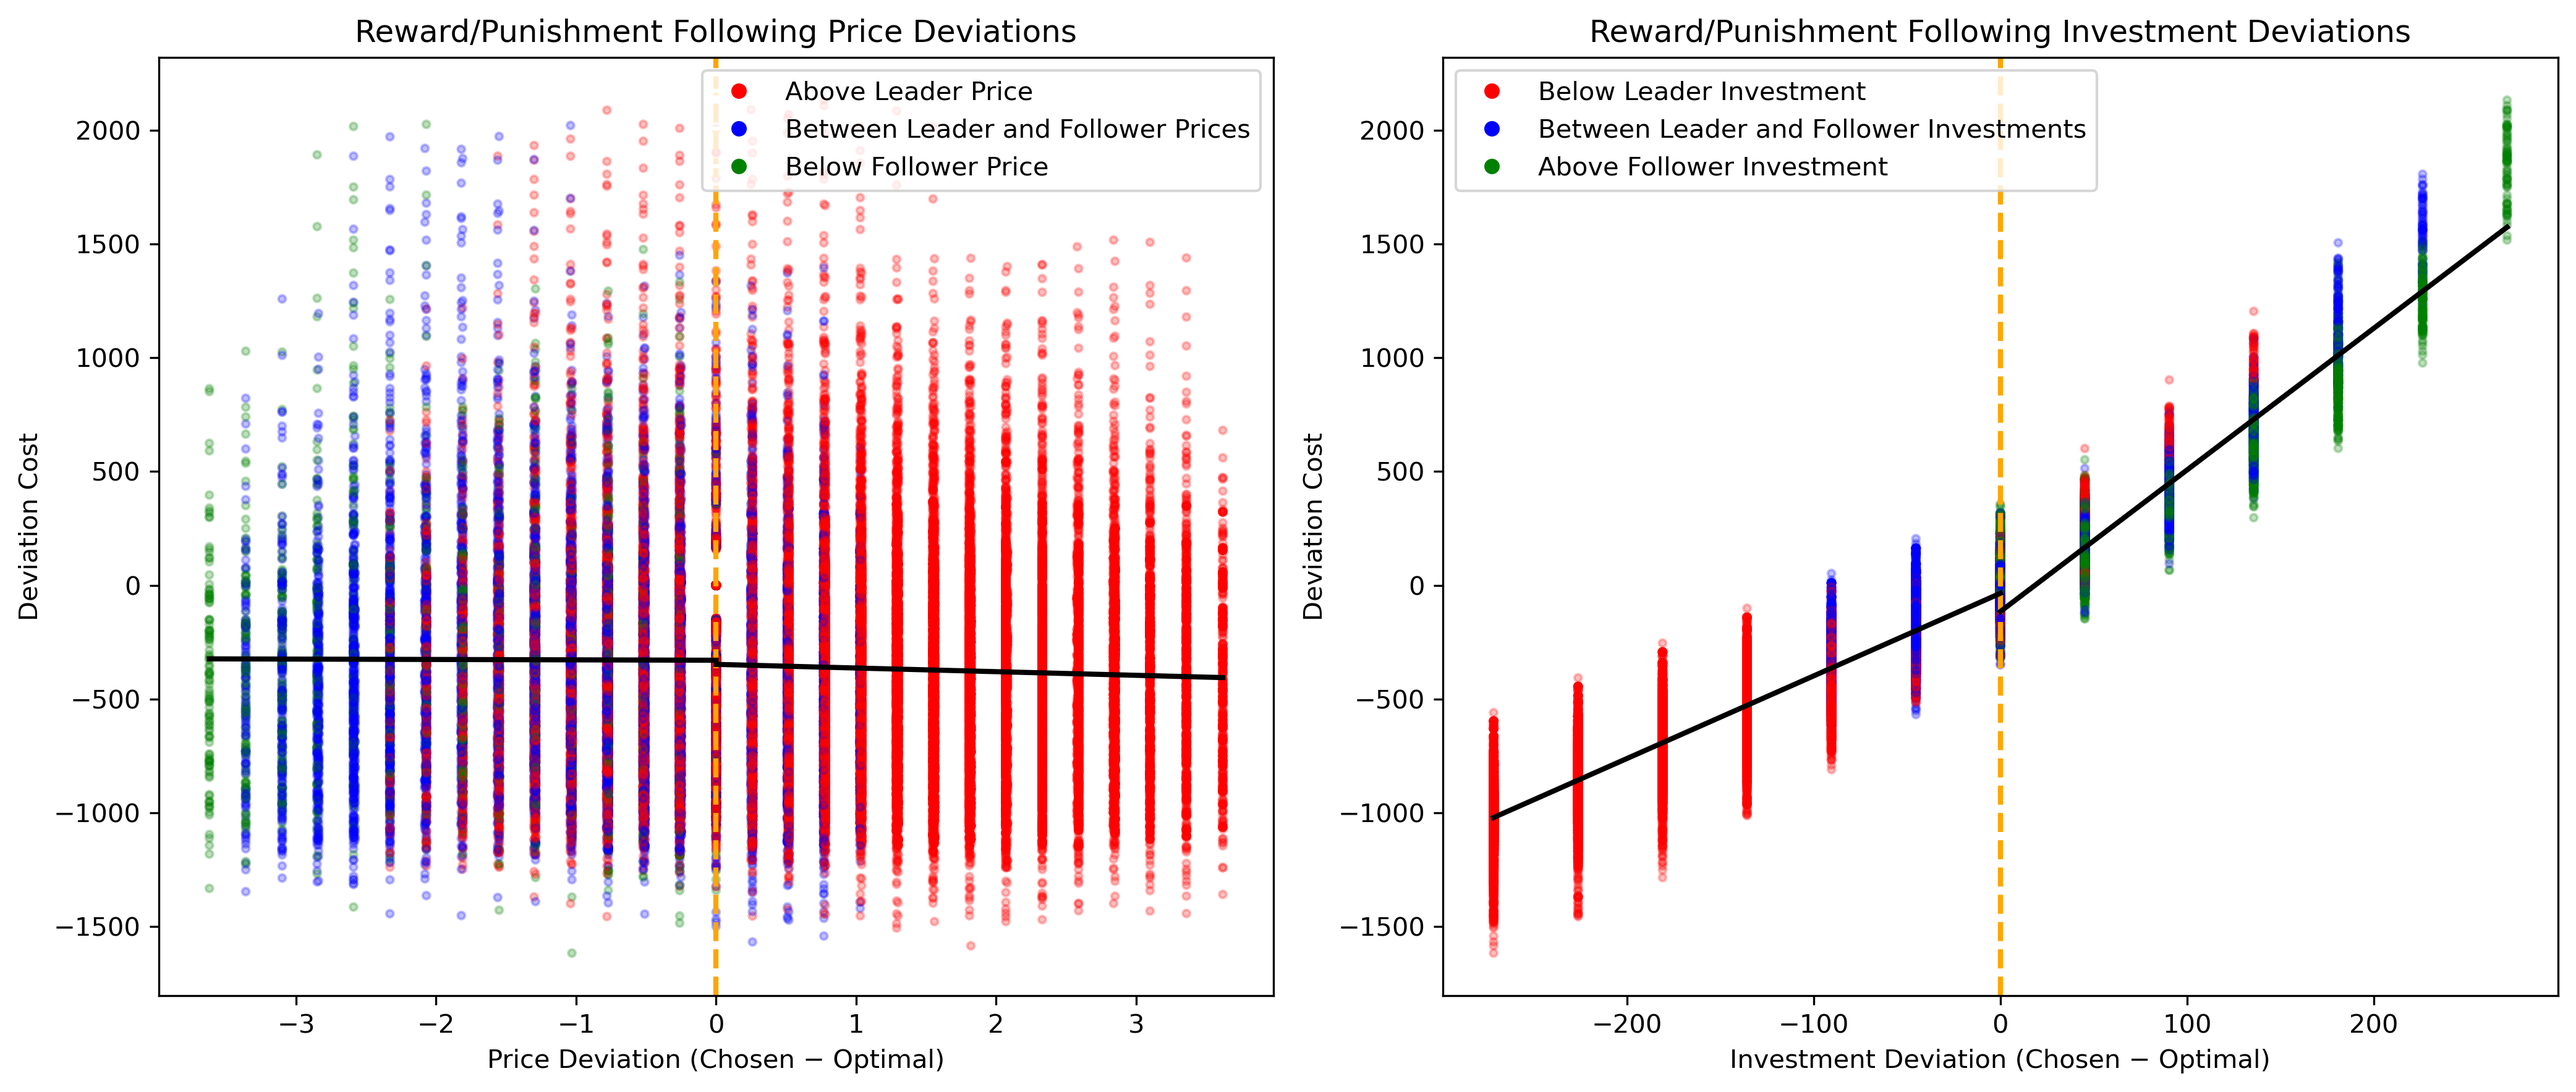
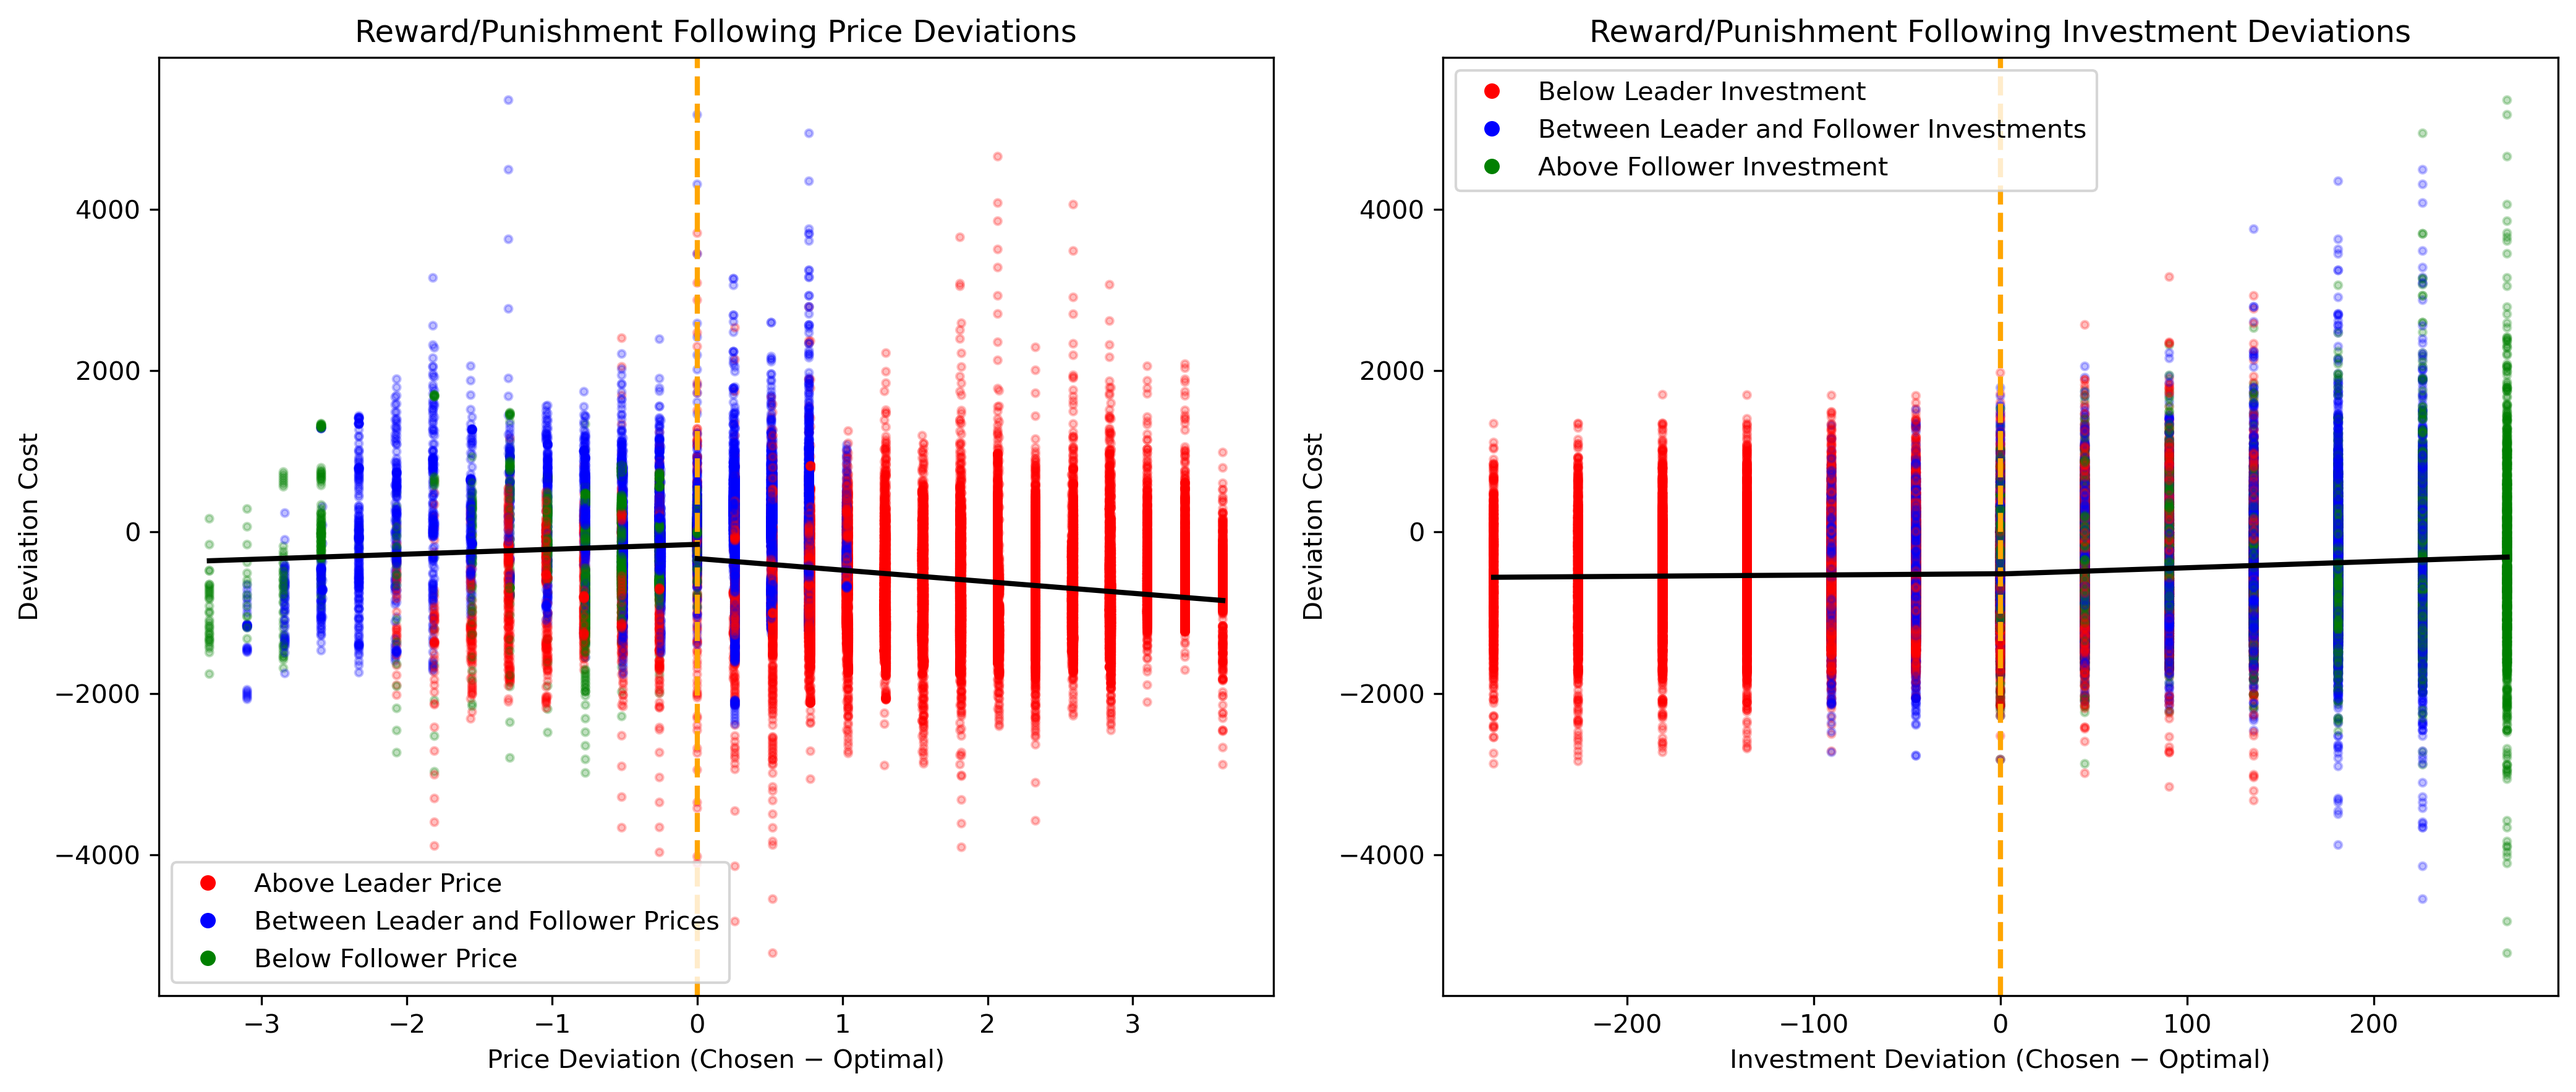
shifting objectives

diff --git a/Visualize.py b/Visualize.py
@@ -226,16 +226,16 @@ def leaderplots(
         
         for ax, (title, ylabel, _, _), matrix_e, matrix_s in zip(axes[:3, leader_index],logs,exp_matrices,stat_matrices): #Rows in diagram
             leaderI_turns_exp = matrix_e[leader_mask_exp]
-            leaderI_turns_stat = matrix_s[leader_mask_stat]
-
+            leaderI_turns_stat = matrix_s[leader_mask_stat][:, :-1]
+          
             leaderI_exp_points = len(leaderI_turns_exp)
-            leaderI_stat_points = len(leaderI_turns_stat)
 
             exp_turns = np.arange(leaderI_exp_points) * downsample
-            stat_turns = np.arange(leaderI_stat_points) + max(exp_turns) +1
+       
+            total_turns = exp_turns
+            total_points = leaderI_turns_exp
 
-            total_turns = np.concatenate([exp_turns, stat_turns])
-            total_points = np.concatenate([leaderI_turns_exp,leaderI_turns_stat])
+            last_x = total_turns[-1]
 
             smooth_window = max(1, leaderI_exp_points // 50)
             label_x = exp_turns[min(smooth_window, leaderI_exp_points - 1)]
@@ -253,28 +253,61 @@ def leaderplots(
                     color=firm_color,
                     label=f'Firm {firm_index + 1} trend ({smooth_window})'
                 )
-                #plot last 100 points to see if there is oscillation
-                ax.scatter(
-                    stat_turns[-100:],
-                    leaderI_turns_stat[:, firm_index][-100:], #showing last 100
-                    color=firm_color,
-                    s=10,
-                    zorder=3
-                )
+            #plot stat points as box plot to see converged solutions
+            n = leaderI_turns_stat.shape[1]
+            
+            right_padding = last_x*0.05
+
+            box_width = 0.05 * last_x
+
+            spacing = box_width * 1.5
+
+            positions = last_x + box_width / 2 + np.arange(n) * spacing
+
+            final_x = positions[-1] + box_width / 2 + right_padding
+
+            bp = ax.boxplot(
+                leaderI_turns_stat,
+                positions=positions,
+                widths=box_width,
+                patch_artist=True
+            )
+
+            for firm_index, box in enumerate(bp['boxes']):
+                firm_color = firm_colors[firm_index % len(firm_colors)]
+                box.set_edgecolor(firm_color)
+                box.set_facecolor('none')
+
+                bp['whiskers'][2 * firm_index].set_color(firm_color)
+                bp['whiskers'][2 * firm_index + 1].set_color(firm_color)
+                # Caps (2 per box)
+                bp['caps'][2 * firm_index].set_color(firm_color)
+                bp['caps'][2 * firm_index + 1].set_color(firm_color)
+
+                # Outliers (1 collection per box)
+                bp['fliers'][firm_index].set_markeredgecolor(firm_color)
+                bp['fliers'][firm_index].set_markerfacecolor('none')
+
+                bp['medians'][firm_index].set_color(firm_color)
+
+            ax.set_xlim(right=final_x)
 
             ax.set_ylabel(ylabel)
             ax.set_title(f"{title} - Firm {leader_index + 1} Leader")
             add_equilibrium_lines(ax, title, config, label_x)
             ax.grid(True, alpha=0.25)
-            ax.margins(x=0)
-
+        
         #Hide y axis on all column except first one (save space)
         if leader_index > 0:
             for row_index in range(3):
                 axes[row_index, leader_index].set_ylabel("")
 
         axes[-1, leader_index].set_xlabel('Turns')
-        axes[-1, leader_index].xaxis.set_major_locator(MaxNLocator(nbins=10, integer=True))
+        axes[-1, leader_index].set_xlim(0, final_x)
+
+        ticks = np.linspace(0, last_x, 8)
+        axes[-1, leader_index].set_xticks(ticks)
+        axes[-1, leader_index].set_xticklabels([f"{x:,.0f}" for x in ticks])
 
     handles, labels = axes[0, 0].get_legend_handles_labels()
     if handles:
@@ -975,9 +1008,6 @@ def reactions(Firms,Possible_States,Possible_Actions,config):
     plt.savefig(r"TrainingResults\Reactions.png", dpi=300, bbox_inches='tight')
     plt.close()
     
-             
-
-
 def Welfare_Plot(CS_Theory,CS_Real,M_Theory,M_Real,save_path="TrainingResults/Welfare.png", show=False, dpi=300):
     print("Welfare")
     fig, (ax1, ax2) = plt.subplots(nrows=2, ncols=1, sharex=True, figsize=(8, 8))

diff --git a/Main.py b/Main.py
@@ -10,6 +10,7 @@ import json
 import random
 from Helper import format_eta,NumpyEncoder
 import argparse
+import math
 
 def Simulate(ClusterTest=False,Progress=True):
     #Allow for parameter inputs
@@ -25,6 +26,7 @@ def Simulate(ClusterTest=False,Progress=True):
     parser.add_argument("--alpha",type=float,default=None)
     parser.add_argument("--mrktsz",type=float,default=None)
     parser.add_argument("--mc",type=float,default=None)
+    parser.add_argument("--objective", type=str, default=None)
 
         #simulation details
     parser.add_argument("--plot", type=float, default=False)
@@ -40,7 +42,8 @@ def Simulate(ClusterTest=False,Progress=True):
         "beta":args.beta,
         "alpha":args.alpha,
         "mrktsz":args.mrktsz,
-        "mc":args.mc
+        "mc":args.mc,
+        "objective":args.objective
     }
 
     # Remove None values
@@ -65,6 +68,7 @@ def Simulate(ClusterTest=False,Progress=True):
     mrktsz = config.mrktsz
     ConsumerSurplus = config.ConsumerSurplus
     initialM = config.startingM
+    objective = config.objective
 
     #Possible state and action vectors
     Possible_States = list(product(*( [prices] * (firms * lags) + [positions] )))
@@ -127,8 +131,9 @@ def Simulate(ClusterTest=False,Progress=True):
 
             if Round == No_ConvergCap:
                 break
-
-            epsilon = max((epsilon_decay*Round) + 1,0)
+            
+            epsilon = max((epsilon_decay * Round) + 1,0)
+          
 
             Prices = []
             Investments = []
@@ -155,27 +160,21 @@ def Simulate(ClusterTest=False,Progress=True):
 
             MarketShares = Demand(Price_Actions,Leader) * mrktsz #for readability
 
-            """
-            Changing profit from value maximization objective to comparitive objective
-            """
-            #TODO: Still need to keep real Profit level somewhere just need to use different scoring metric in q matrix
-
             Profit = (Price_Actions - mc)*MarketShares - Investment_Actions
 
-            
-            Profits_array = np.array(Profit)
-            differences = np.array([
-                value - np.mean(np.delete(Profits_array, i))
-                for i, value in enumerate(Profits_array)
-                ])
-
-          
-            
-            #This is what is updated in the Q-Matrix
-            #Firm_Objective = [sum(Profit)] * len(Profit)
-            Firm_Objective = Profit
-            #Firm_Objective = differences
-
+            #Different optimization objectives for the firms
+            if objective == "profit":
+                Firm_Objective = Profit
+            elif objective == "collude":
+                Firm_Objective = [sum(Profit)] * len(Profit)
+            elif objective == "rival":
+                Profits_array = np.array(Profit)
+                differences = np.array([
+                    value - np.mean(np.delete(Profits_array, i))
+                    for i, value in enumerate(Profits_array)
+                    ])
+                Firm_Objective = differences
+    
             #Calculate best possible outcomes next period 
             Leader_Best = []
             Follower_Best = []

diff --git a/Settings.py b/Settings.py
@@ -14,7 +14,7 @@ class Config:
     lags: int = 1
     firms: int = 2
     mrktsz: int = 1000
-    caplen:int = 10**8 #hard cap at 100MM iterations
+    caplen:int = 10**9 #hard cap at 100MM iterations
     startingM:int=1
     #Demand features
     mc: int = 1
@@ -31,8 +31,9 @@ class Config:
     price_interval_margin = 0.02
     investment_interval_margin = 0.1
     #based on above values     _States_                      _actions_             visit each ~X times
-    explorationlen: int = (prices_count**(firms*lags)) * (prices_count*investments_count) * 100
+    explorationlen: int = (prices_count**(firms*lags)) * (prices_count*investments_count) * 500
     epsilon_decay: float = -1/(explorationlen)
+    objective:str="profit"
 
     #Holder variables
     MonopolyP: float = None
